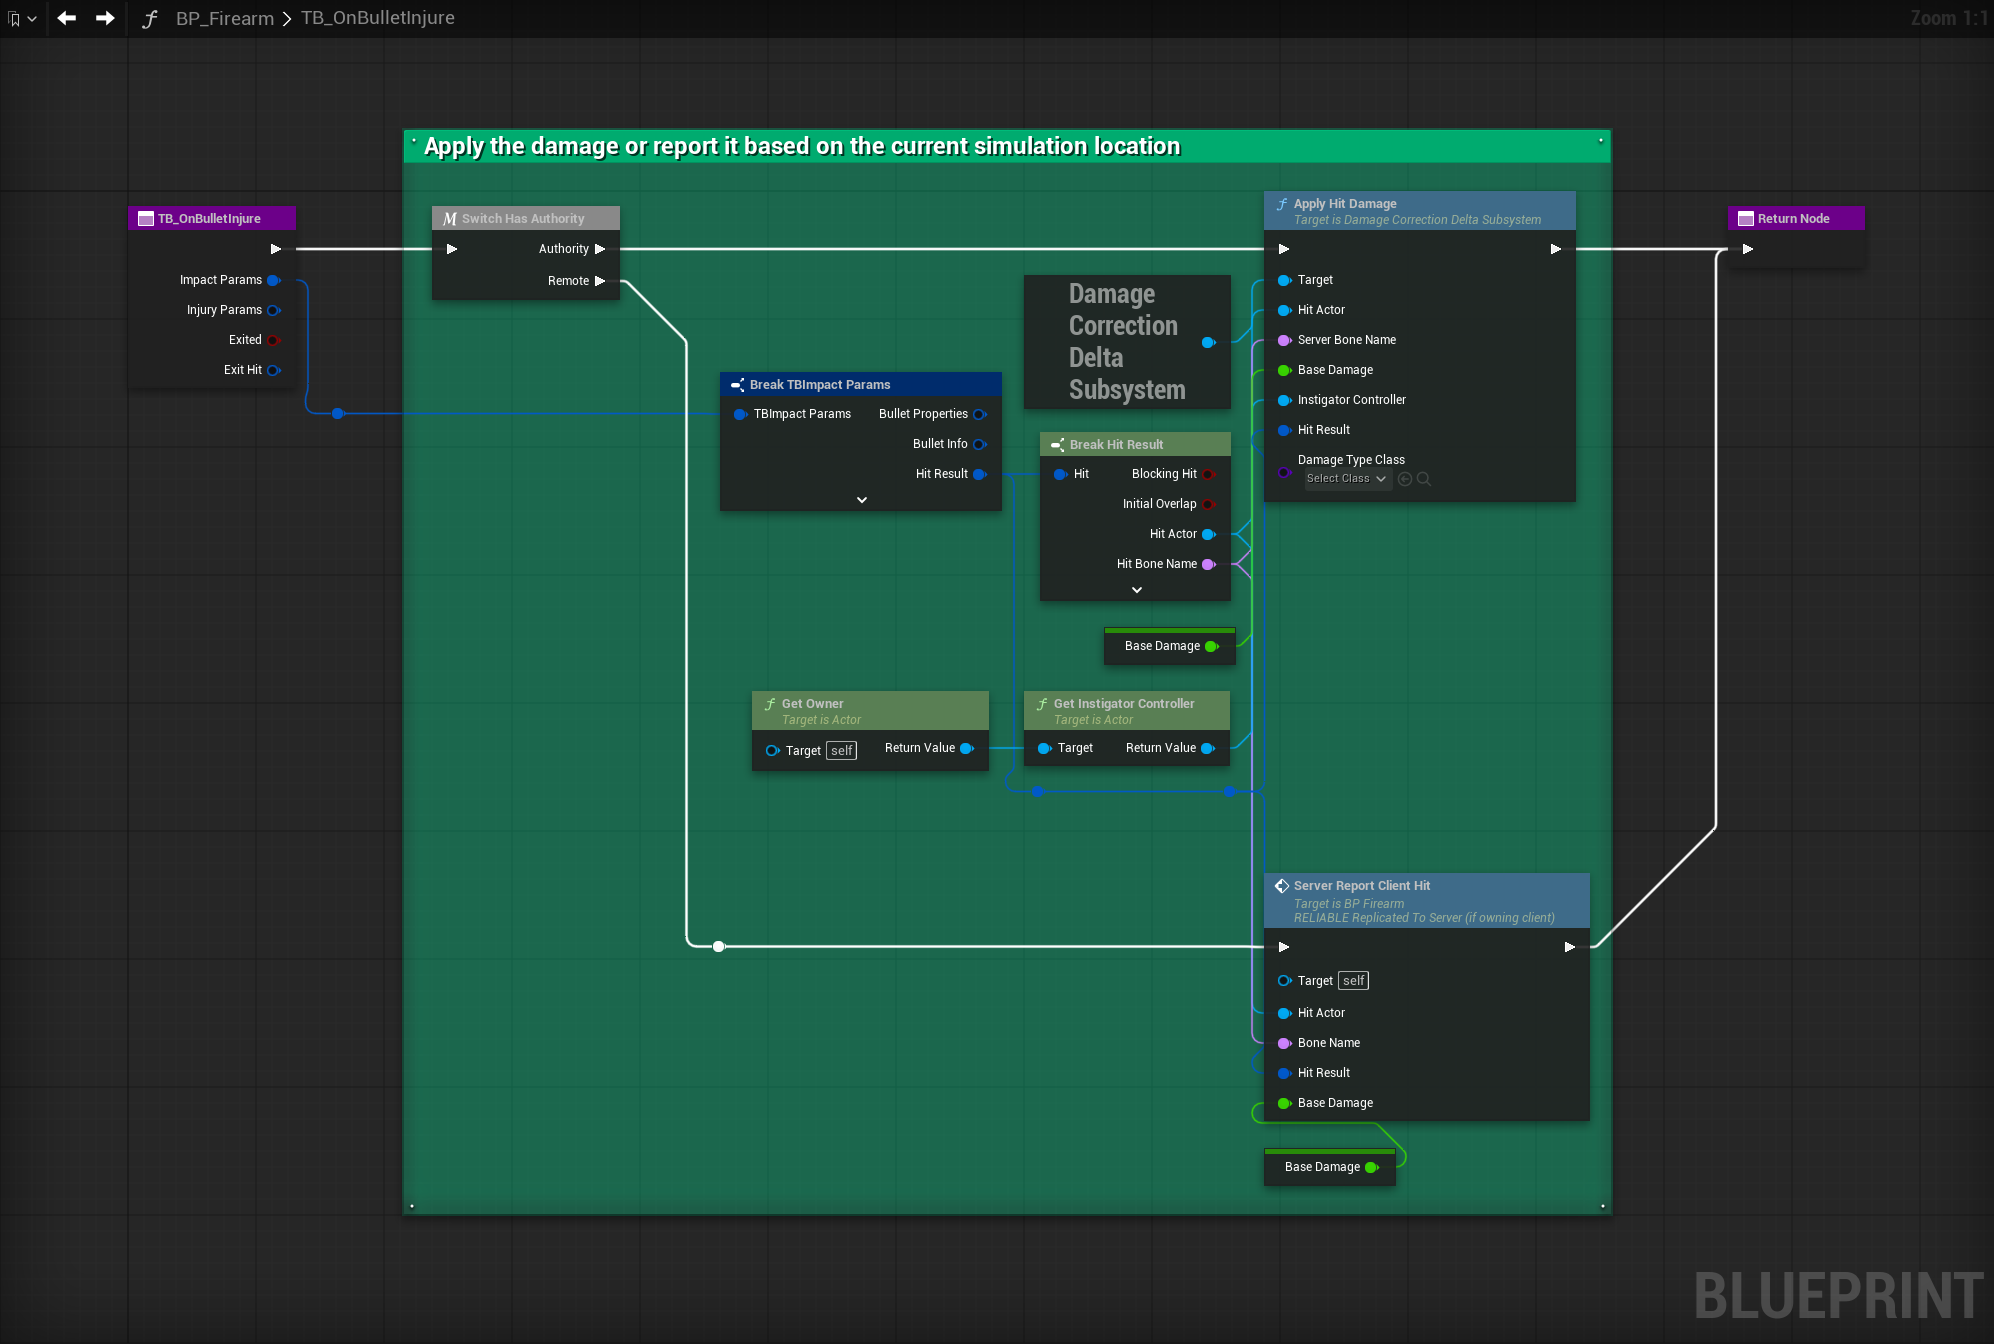
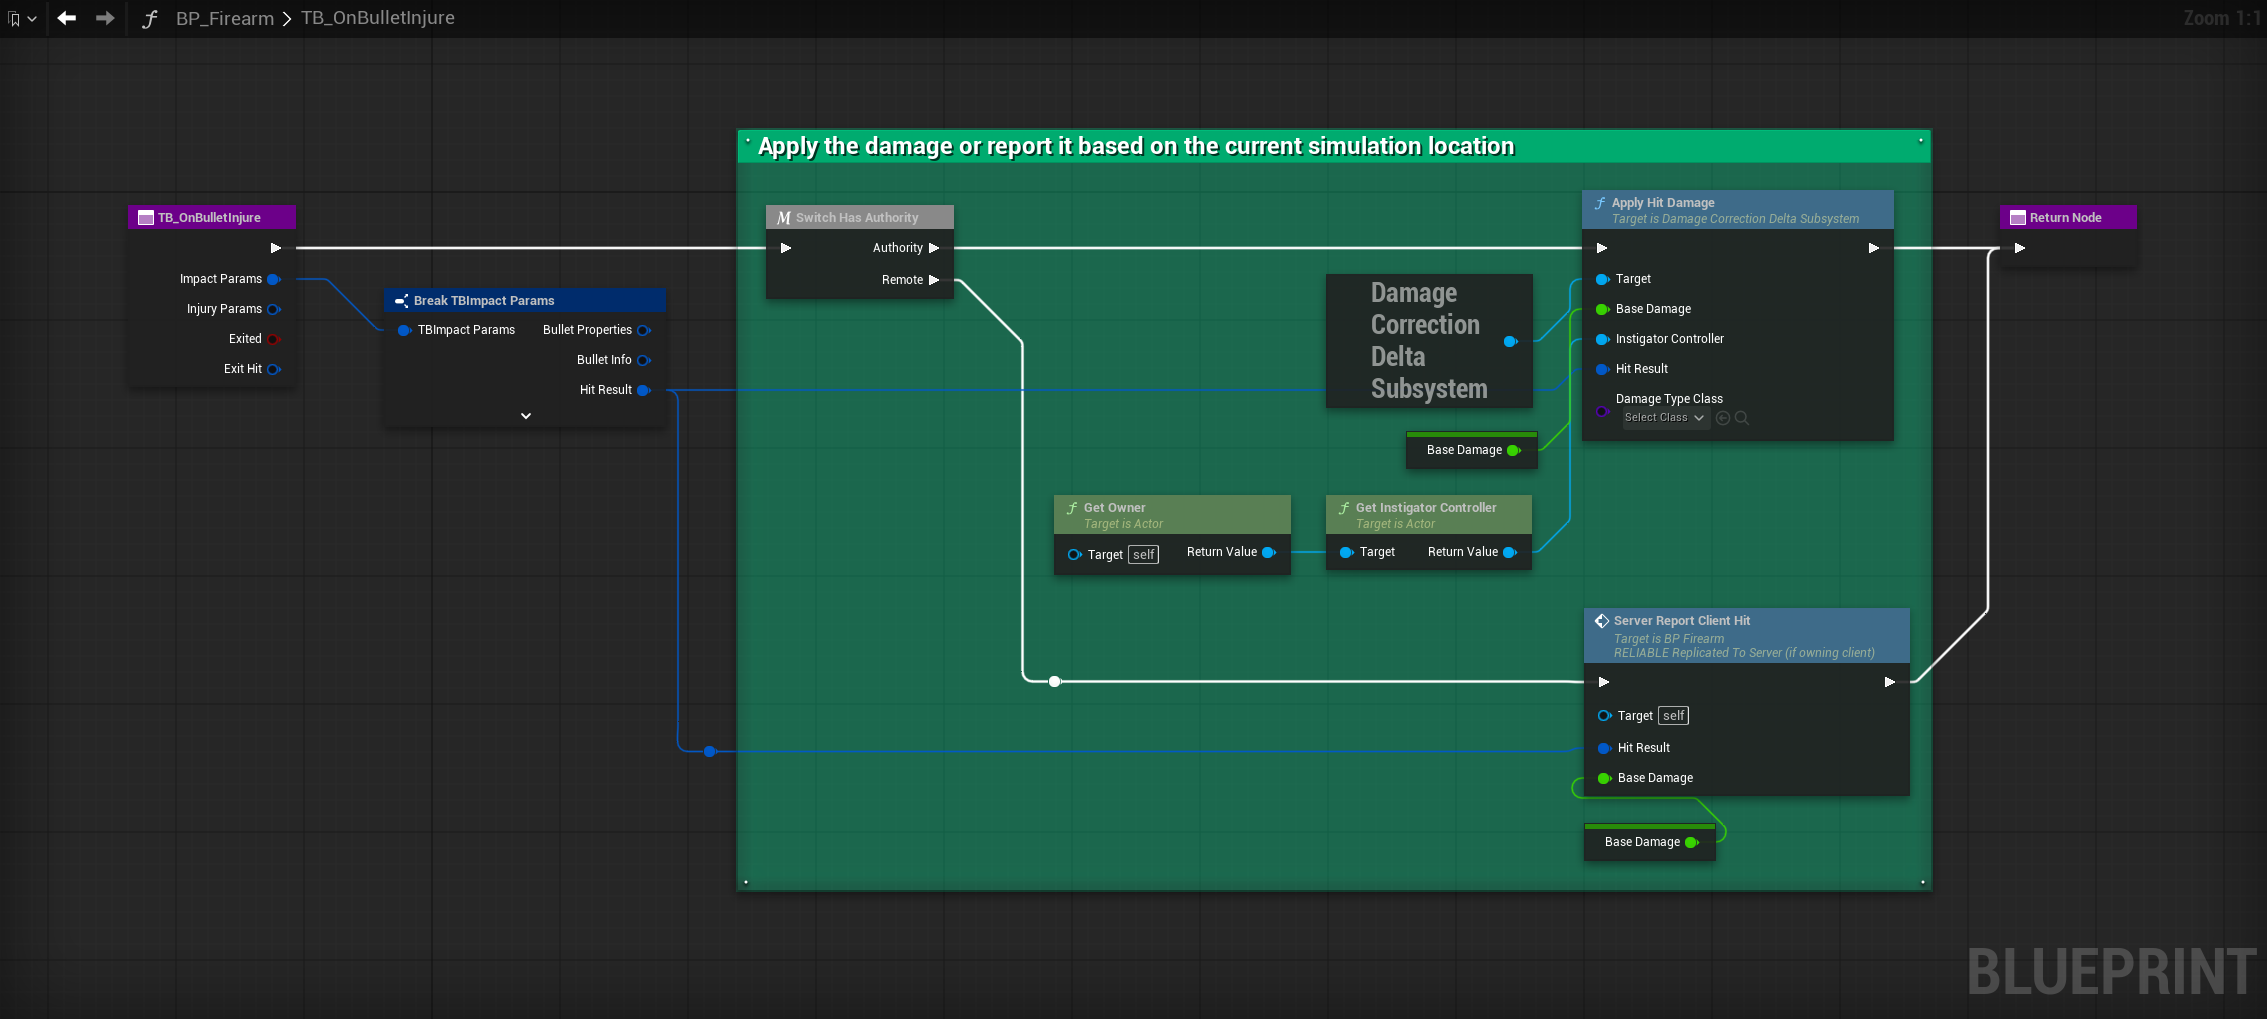
Fixed bug with server damage when client auth, simplified inputs by inferring hit data directly from the hit result

diff --git a/Source/ClientDamageCorrectionDelta/Private/DamageCorrectionDeltaSubsystem.cpp b/Source/ClientDamageCorrectionDelta/Private/DamageCorrectionDeltaSubsystem.cpp
@@ -66,8 +66,11 @@ UDamageBoneMapDataAsset* UDamageCorrectionDeltaSubsystem::ResolveDamageMap(AActo
 //   ServerAuthoritative    - bone is queued or paired with a buffered server hit.
 //                            The switch falls to default+break so the existing
 //                            delta logic below runs without duplication.
-void UDamageCorrectionDeltaSubsystem::ReportClientHit(AActor* HitActor, FName BoneName, AController* InstigatorController, const FHitResult& HitResult, float BaseDamage, TSubclassOf<UDamageType> DamageTypeClass)
+void UDamageCorrectionDeltaSubsystem::ReportClientHit(AController* InstigatorController, const FHitResult& HitResult, float BaseDamage, TSubclassOf<UDamageType> DamageTypeClass)
 {
+	AActor* HitActor = HitResult.GetActor();
+	const FName BoneName = HitResult.BoneName;
+
 	if (!HitActor || BoneName.IsNone())
 	{
 		return;
@@ -178,17 +181,24 @@ void UDamageCorrectionDeltaSubsystem::ReportClientHit(AActor* HitActor, FName Bo
 	PendingClientBones.FindOrAdd(HitActor).Add(MoveTemp(Report));
 }
 
-// No-op in all non-ServerAuthoritative modes - the server projectile still fires and
-// collides, but damage authority has been handed to the client RPC path.
-//
-// In ServerAuthoritative mode, the dedup guard uses a flat timestamp rather than
-// per-instigator tracking, which is intentional: two different clients shooting
-// the same actor within DamageIgnoreDelay is treated as a single event. If you
-// need per-instigator dedup, key LastHitTime on (actor, instigator) pairs instead.
-void UDamageCorrectionDeltaSubsystem::ApplyHitDamage(AActor* HitActor, FName ServerBoneName, float BaseDamage, AController* InstigatorController, const FHitResult& HitResult, TSubclassOf<UDamageType> DamageTypeClass)
+// In non-ServerAuthoritative modes the call is forwarded to ReportClientHit so callers
+// don't need to branch on mode. The dedup guard uses a flat per-actor timestamp rather
+// than per-instigator tracking, which is intentional: two clients hitting the same actor
+// within DamageIgnoreDelay is treated as one event. Key LastHitTime on (actor, instigator)
+// pairs if you need per-instigator dedup.
+void UDamageCorrectionDeltaSubsystem::ApplyHitDamage(float BaseDamage, AController* InstigatorController, const FHitResult& HitResult, TSubclassOf<UDamageType> DamageTypeClass)
 {
-	if (!HitActor || ValidationMode != EDamageCorrectionValidationMode::ServerAuthoritative)
+	AActor* HitActor          = HitResult.GetActor();
+	const FName ServerBoneName = HitResult.BoneName;
+
+	if (!HitActor)
 	{
+		return;
+	}
+
+	if (ValidationMode != EDamageCorrectionValidationMode::ServerAuthoritative)
+	{
+		ReportClientHit(InstigatorController, HitResult, BaseDamage, DamageTypeClass);
 		return;
 	}
 

diff --git a/Source/ClientDamageCorrectionDelta/Public/DamageCorrectionDeltaSubsystem.h b/Source/ClientDamageCorrectionDelta/Public/DamageCorrectionDeltaSubsystem.h
@@ -46,22 +46,23 @@ public:
 	virtual void Deinitialize() override;
 
 	// Call this on the server (via a Server RPC in your projectile Blueprint) when the
-	// client's predicted projectile hits something.
+	// client's predicted projectile hits something. HitActor and BoneName are inferred
+	// from HitResult.GetActor() and HitResult.BoneName.
 	//
 	// ServerAuthoritative: stores the bone for use by ApplyHitDamage, or applies the
 	// delta immediately if the server hit has already been processed.
-	// HitResult/BaseDamage/DamageMap/DamageTypeClass are unused in this mode.
 	//
 	// ClientAuthoritative: applies damage directly from the client data.
 	// ClientWithValidation: validates distance and optionally line-of-sight before applying.
-	// Both non-server modes require HitResult, BaseDamage, DamageMap, and DamageTypeClass.
 	UFUNCTION(BlueprintCallable, Category = "Damage Correction")
-	void ReportClientHit(AActor* HitActor, FName BoneName, AController* InstigatorController, const FHitResult& HitResult, float BaseDamage, TSubclassOf<UDamageType> DamageTypeClass);
+	void ReportClientHit(AController* InstigatorController, const FHitResult& HitResult, float BaseDamage, TSubclassOf<UDamageType> DamageTypeClass);
 
 	// Call this server-side on the authoritative projectile's OnHit instead of ApplyPointDamage.
-	// No-op when ValidationMode is not ServerAuthoritative.
+	// HitActor and BoneName are inferred from HitResult.GetActor() and HitResult.BoneName.
+	// In ServerAuthoritative mode, applies damage and buffers the record for client delta.
+	// In all other modes, forwards directly to ReportClientHit so callers never need to branch on mode.
 	UFUNCTION(BlueprintCallable, Category = "Damage Correction")
-	void ApplyHitDamage(AActor* HitActor, FName ServerBoneName, float BaseDamage, AController* InstigatorController, const FHitResult& HitResult, TSubclassOf<UDamageType> DamageTypeClass);
+	void ApplyHitDamage(float BaseDamage, AController* InstigatorController, const FHitResult& HitResult, TSubclassOf<UDamageType> DamageTypeClass);
 
 	// Mirrors DamageCorrectionSettings::ValidationMode at runtime.
 	UPROPERTY(EditAnywhere, BlueprintReadWrite, Category = "Damage Correction|Settings")
@@ -72,9 +73,8 @@ public:
 	bool bValidateDistance = true;
 
 	// Mirrors DamageCorrectionSettings::MaxValidationRange at runtime.
-	UPROPERTY(EditAnywhere, BlueprintReadWrite, Category = "Damage Correction|Settings",
-	          meta = (ClampMin = "1.0", ForceUnits = "cm"))
-	float MaxValidationRange = 150000.f;
+	UPROPERTY(EditAnywhere, BlueprintReadWrite, Category = "Damage Correction|Settings", meta = (ClampMin = "1.0", ForceUnits = "cm"))
+	float MaxValidationRange = 150000.0f;
 
 	// Mirrors DamageCorrectionSettings::bValidateLineOfSight at runtime.
 	UPROPERTY(EditAnywhere, BlueprintReadWrite, Category = "Damage Correction|Settings")

diff --git a/README.md b/README.md
@@ -89,8 +89,6 @@ Create a reliable Server RPC and call it when the predicted projectile hits an a
 ```
 Get World Subsystem (DamageCorrectionDeltaSubsystem)
 → ReportClientHit
-    HitActor:             The actor that was hit
-    BoneName:             The bone name from the client hit result
     InstigatorController: The owning player controller
     HitResult:            The client hit result
     BaseDamage:           Your base damage value
@@ -104,11 +102,9 @@ Where you deal damage, replace any existing `ApplyDamage/ApplyPointDamage` calls
 ```
 Get World Subsystem (DamageCorrectionDeltaSubsystem)
 → ApplyHitDamage
-    HitActor:             The actor that was hit
-    ServerBoneName:       The bone name from the server hit result
-    BaseDamage:           Your base damage value
     InstigatorController: The instigating player controller
     HitResult:            The server hit result
+    BaseDamage:           Your base damage value
     DamageTypeClass:      Your damage type
 ```
 
@@ -163,10 +159,10 @@ All settings are available in `Project Settings → Plugins → Damage Correctio
 
 ### UDamageCorrectionDeltaSubsystem
 
-| Function | Description |
-|---|---|
-| `ReportClientHit(HitActor, BoneName, InstigatorController, HitResult, BaseDamage, DamageTypeClass)` | Call from a reliable Server RPC in your client-predicted projectile when it hits an actor |
-| `ApplyHitDamage(HitActor, ServerBoneName, BaseDamage, InstigatorController, HitResult, DamageTypeClass)` | Call from your server-authoritative projectile's hit, in place of ApplyPointDamage |
+| Function                                                                        | Description |
+|---------------------------------------------------------------------------------|---|
+| `ReportClientHit(InstigatorController, HitResult, BaseDamage, DamageTypeClass)` | Call from a reliable Server RPC in your client-predicted projectile when it hits an actor |
+| `ApplyHitDamage(InstigatorController, HitResult, BaseDamage, DamageTypeClass)`  | Call from your server-authoritative projectile's hit, in place of ApplyPointDamage |
 
 ### IDamageBoneMapInterface
 